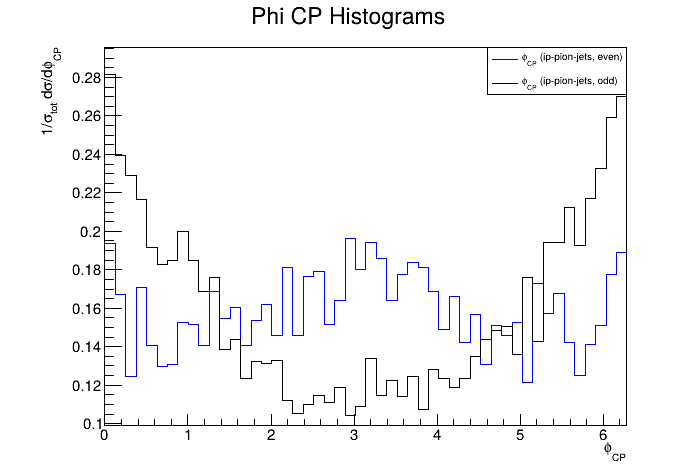
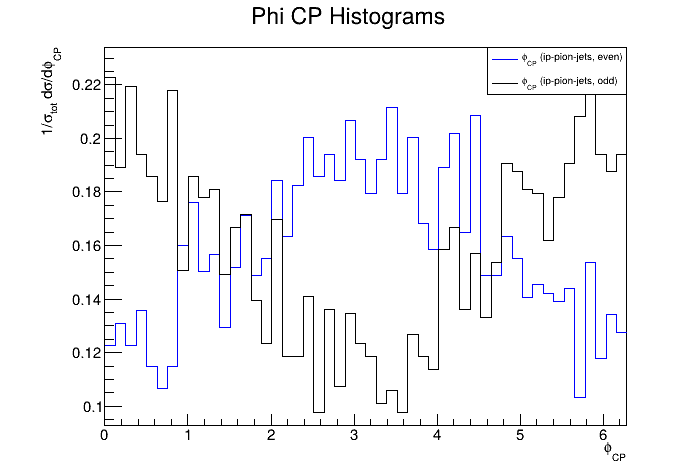
push current state

diff --git a/source/MyAnalysis/MyAnalysis/Observables.h b/source/MyAnalysis/MyAnalysis/Observables.h
@@ -3,6 +3,7 @@
 
 #include <TLorentzVector.h>
 
+TVector3 getTransverseComponent(const TVector3 &vec1, const TVector3 &vec2);
 TVector3 getPerpendicularComponent(const TVector3 &vec1, const TVector3 &vec2);
 
 double phiCP_Pion_Tau(TLorentzVector higgsP4, TLorentzVector tauPosP4,
@@ -13,10 +14,9 @@ double phiCP_Pion_Neutrino(TLorentzVector higgsP4, TLorentzVector antiNeutriP4,
                            TLorentzVector neutriP4, TLorentzVector piPosP4,
                            TLorentzVector piNegP4);
 
-double phiCP_Pion_ImpactParameter(TVector3 pionPosProdVtx,
-                                  TVector3 pionNegProdVtx,
-                                  TVector3 tauNegProdVtx,
-                                  TLorentzVector pionPosP4,
-                                  TLorentzVector pionNegP4);
+double
+phiCP_Pion_ImpactParameter(TVector3 pionPosProdVtx, TVector3 pionNegProdVtx,
+                           TVector3 tauNegProdVtx, TVector3 tauPosProdVtx,
+                           TLorentzVector pionPosP4, TLorentzVector pionNegP4);
 
 #endif

diff --git a/source/MyAnalysis/MyAnalysis/Utils.h b/source/MyAnalysis/MyAnalysis/Utils.h
@@ -2,10 +2,24 @@
 #define MyAnalysis_Utils_H
 
 #include "xAODTracking/TrackParticle.h"
-#include <TLorentzVector.h>
+#include "xAODTracking/Vertex.h"
 #include <TVector3.h>
 
 TVector3 calculatePionTrackVertex(const xAOD::TrackParticle *track,
                                   const TVector3 &beamSpot);
+
+enum TauDecayMode {
+  LEPTONIC,
+  HADRONIC_1P0N,
+  HADRONIC_1P1N,
+  HADRONIC_1PXN,
+  HADRONIC_3P0N,
+  UNKNOWN
+};
+
+TauDecayMode inferTauDecayMode(int leptonCount, int pionChargedCount,
+                               int pionZeroCount, int neutrinoCount);
+
+TVector3 GetVertexVector(const xAOD::Vertex *vertex);
 
 #endif

diff --git a/source/MyAnalysis/MyAnalysis/TruthLevelAnalysis.h b/source/MyAnalysis/MyAnalysis/TruthLevelAnalysis.h
@@ -14,8 +14,6 @@
 
 class TruthLevelAnalysis : public EL::AnaAlgorithm {
 private:
-  double m_phiCP = 0.;
-  double m_phiCPNeutri = 0.;
   double m_phiCPPion = 0.;
   double m_phiCPPionJet = 0.;
   double m_phiCPPionJetReco = 0.;
